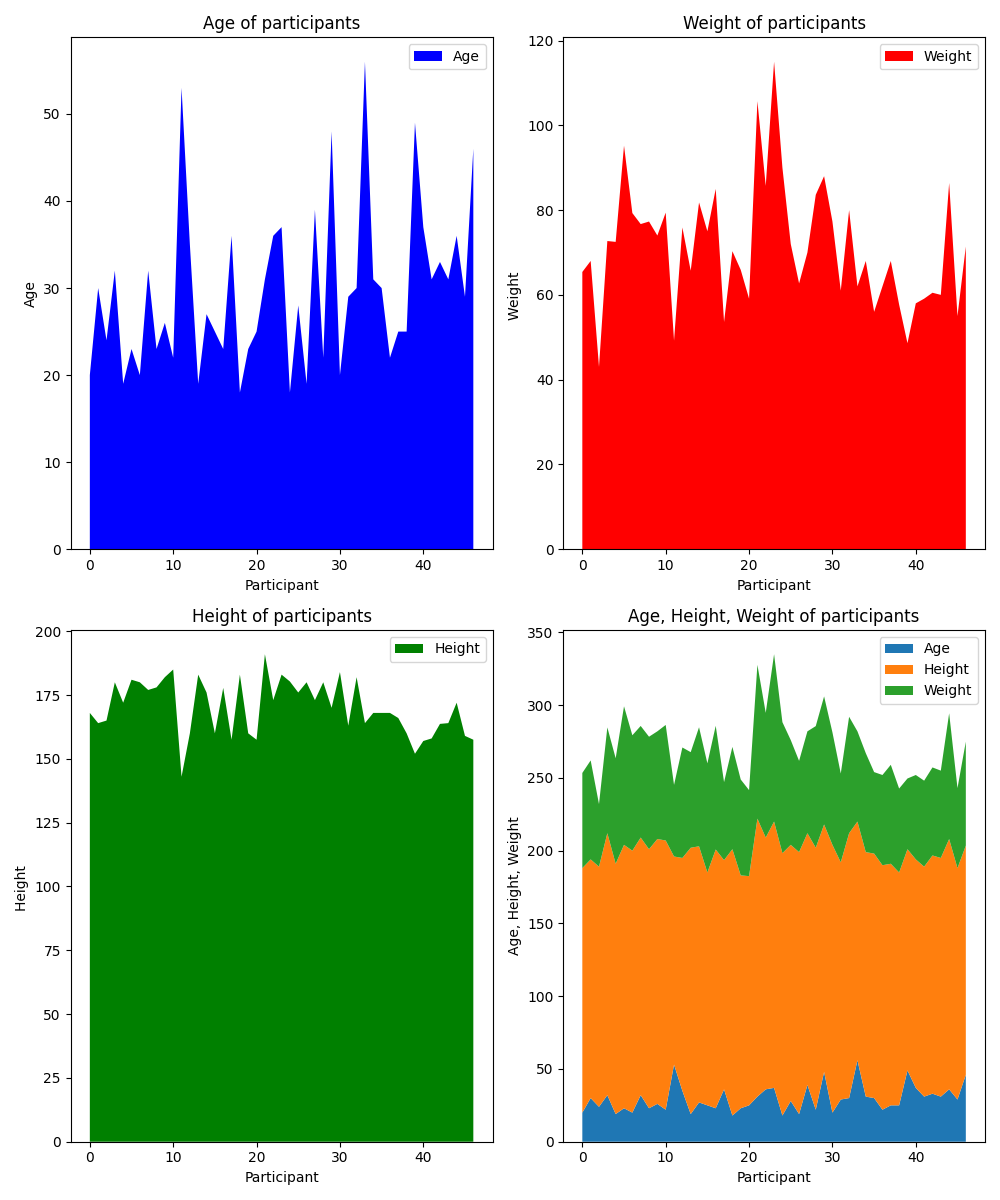
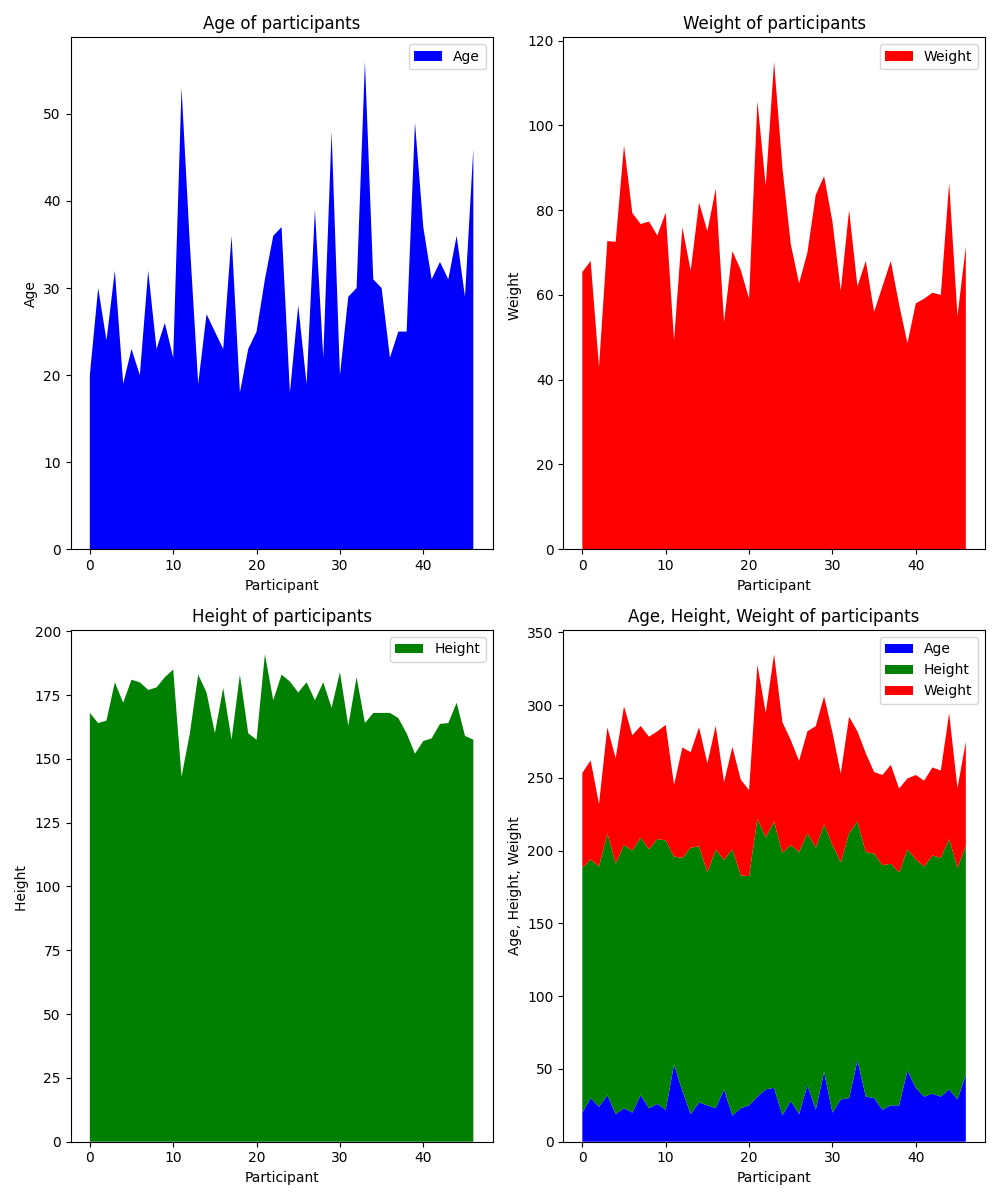
A2.4

Changed region(s): [[0.558, 0.555, 0.992, 0.9558], [0.868, 0.5242, 0.93, 0.5858]]

diff --git a/LAB_2/AIDM_Lab2-A2.4/Task_III.py b/LAB_2/AIDM_Lab2-A2.4/Task_III.py
@@ -1,0 +1,57 @@
+"""
+III- 
+    Visualize "steps", "heart_rate", and "calories" 
+    of the first three participants in three plots with subplots (stacked plot), 
+    in a way that the steps of each three participants are depicted with different colored lines, 
+    the same for other two datasets. 
+    The legends should be on the top corner of each plot 
+    (participant #1, participant #2, participant#3) (2pts - Mandatory)
+"""
+
+import pandas as pd
+import matplotlib.pyplot as plt
+
+file_path = 'LAB_2/AIDM_Lab2-A2.4/Task-II_aw_fb_data.csv'
+
+data = pd.read_csv(file_path, delimiter=',')
+
+# copy the data
+df = data.copy()
+
+# Create subplots: 3 rows, 1 column
+fig, ax = plt.subplots(2, 2, figsize=(10, 12))
+
+# Stackplot for Steps
+ax[0, 0].stackplot(df.index, df['steps'], labels=['Steps'], colors=['blue'])
+ax[0, 0].set_title('Steps of participants')
+ax[0, 0].set_ylabel('Steps')
+ax[0, 0].set_xlabel('Participant')
+ax[0, 0].legend()
+
+# Stackplot for Heart Rate
+ax[1, 0].stackplot(df.index, df['hear_rate'], labels=['Heart Rate'], colors=['green'])
+ax[1 ,0].set_title('Heart Rate of participants')
+ax[1 ,0].set_ylabel('Heart Rate ')
+ax[1, 0].set_xlabel('Participant')
+ax[1 ,0].legend()
+
+# Stackplot for Calorie
+ax[0, 1].stackplot(df.index, df['calories'], labels=['Calories'], colors=['red'])
+ax[0, 1].set_title('Calories of participants')
+ax[0,1].set_ylabel('Calories ')
+ax[0,1].set_xlabel('Participant')
+ax[0,1].legend()
+
+# Stackplot for Steps, Heart Rate, Calories
+ax[1,1].stackplot(df.index, df['steps'], df['hear_rate'], df['calories'], labels=['Steps', 'Heart Rate', 'Calories'])
+ax[1,1].set_title('Steps, Heart Rate, Calories of participants')
+ax[1,1].set_ylabel('Steps, Heart Rate, Calories')
+ax[1,1].set_xlabel('Participant')
+ax[1,1].legend()
+
+
+# Adjust layout & Show
+plt.tight_layout()
+plt.savefig('LAB_2/AIDM_Lab2-A2.4/Task-III_steps_heart_rate_calories.png')
+
+plt.show()

diff --git a/LAB_2/AIDM_Lab2-A2.4/Task_IV.py b/LAB_2/AIDM_Lab2-A2.4/Task_IV.py
@@ -1,0 +1,28 @@
+"""
+IV- 
+    Normalize the "age", "height", and "weight", 
+    and Standardize "steps" and "heart rate" columns 
+    in a separate column at the end of the dataframe (1pts - Mandatory)
+"""
+
+import pandas as pd
+import numpy as np
+
+file_path = 'LAB_2/AIDM_Lab2-A2.4/Task-II_aw_fb_data.csv'
+
+data = pd.read_csv(file_path, delimiter=',')
+
+df = data.copy()
+
+# Normalize the "age", "height", and "weight"
+df['age_norm'] = (df['age'] - df['age'].min()) / (df['age'].max() - df['age'].min())
+df['height_norm'] = (df['height'] - df['height'].min()) / (df['height'].max() - df['height'].min())
+df['weight_norm'] = (df['weight'] - df['weight'].min()) / (df['weight'].max() - df['weight'].min())
+
+# Standardize "steps" and "heart rate" columns
+df['steps_std'] = (df['steps'] - df['steps'].mean()) / df['steps'].std()
+df['heart_rate_std'] = (df['hear_rate'] - df['hear_rate'].mean()) / df['hear_rate'].std()
+
+print(df.head())
+print(df.tail())
+df.to_csv('LAB_2/AIDM_Lab2-A2.4/Task_IV_aw_fb_data.csv', index=False)

diff --git a/LAB_2/AIDM_Lab2-A2.4/Task_V.py b/LAB_2/AIDM_Lab2-A2.4/Task_V.py
@@ -1,0 +1,33 @@
+"""
+V- 
+    Split the dataset into three categories with the following distribution: 
+    Train (70%), Validation (15%), and Test (15%) (1pts - Mandatory)
+"""
+
+import pandas as pd
+
+file_path = 'LAB_2/AIDM_Lab2-A2.4/Task_IV_aw_fb_data.csv'
+
+data = pd.read_csv(file_path, delimiter=',')
+
+df = data.copy()
+
+# Split the dataset
+train = df.sample(frac=0.7, random_state=0)
+df.drop(train.index, inplace=True)
+
+validation = df.sample(frac=0.5, random_state=0)
+test = df.drop(validation.index)
+
+print("Train: ", train.shape)
+print("Validation: ", validation.shape)
+print("Test: ", test.shape)
+
+print(train)
+print(validation)
+print(test)
+
+
+# train.to_csv('LAB_2/AIDM_Lab2-A2.4/Task_V_train.csv', index=False)
+# validation.to_csv('LAB_2/AIDM_Lab2-A2.4/Task_V_validation.csv', index=False)
+# test.to_csv('LAB_2/AIDM_Lab2-A2.4/Task_V_test.csv', index=False)

diff --git a/LAB_2/AIDM_Lab2-A2.4/Task_II.py b/LAB_2/AIDM_Lab2-A2.4/Task_II.py
@@ -17,7 +17,6 @@ file_path = 'LAB_2/AIDM_Lab2-A2.4/aw_fb_data.csv'
 
 data = pd.read_csv(file_path, delimiter=',')
 
-# copy the data
 df = data.copy()
 
 # drop duplicates of the same participant based on age, gender, height
@@ -54,7 +53,8 @@ ax[0, 1].set_xlabel('Participant')
 ax[0, 1].legend()
 
 # Stackplot for Age, Height, Weight
-ax[1, 1].stackplot(df.index, df['age'], df['height'], df['weight'], labels=['Age', 'Height', 'Weight'])
+ax[1, 1].stackplot(df.index, df['age'], df['height'], df['weight'], 
+                   colors=['blue', 'green', 'red'] ,labels=['Age', 'Height', 'Weight'])
 ax[1, 1].set_title('Age, Height, Weight of participants')
 ax[1, 1].set_ylabel('Age, Height, Weight')
 ax[1, 1].set_xlabel('Participant')

diff --git a/LAB_2/AIDM_Lab2-A2.4/Task_I.py b/LAB_2/AIDM_Lab2-A2.4/Task_I.py
@@ -18,7 +18,6 @@ data = pd.read_csv(file_path, delimiter=',')
 
 print(data['calories']) 
 
-# copy the data
 transform = data.copy()
 
 # subplots
